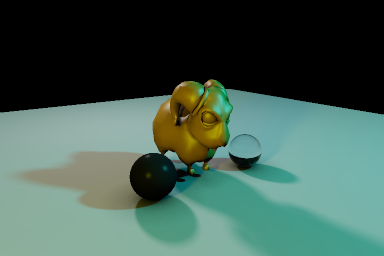
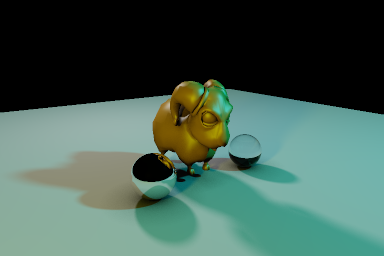
fix: --sphere mirror is a mirror
The options that describe the model were applied after the spheres had
joined the scene. --reflectivity is 0 unless given, so it wiped the mirror
off every sphere --sphere had just added; --transparency, --color,
--texture, --specular and --shininess reached them the same way. The mirror
sphere of step 11 has been a dark matte ball since v0.2.0, and the gallery
caption explained it by the black sky it was supposed to reflect.

The model's options now go on the model alone, before anything else joins
the scene: the spheres keep the material they were given, and the ground
plane has its own option. The render line lists the mirrors and the glass
the scene really holds, not the ones the options asked for.

The unit tests build their spheres with their materials and never went
through this path. ctest cli_mirror_sphere does: it renders a mirror sphere
and expects the render line to report reflections, which fails on the old
order. docs/evolution/11-primitives.png is the only gallery picture that
moves: the ball now shows the ground, the ram and the black sky above them.

Claude-Session: https://claude.ai/code/session_01UcpgzRVNjAUqXK1pax59yv

Changed region(s): [[0.3125, 0.5938, 0.4688, 0.7812]]

diff --git a/src/cli/Main.cpp b/src/cli/Main.cpp
@@ -622,6 +622,23 @@ int main(int argc, char** argv) {
     std::string upSource = "option";
     const UpAxis up = o.up ? *o.up : resolveUpAxis(path, scene, &upSource);
     scene.setUpAxis(up);
+    // What the options say of the model goes on the model alone, before
+    // anything else joins the scene: a sphere added below keeps the material
+    // it was given, and a ground plane has its own option.
+    scene.setModelReflectivity(o.reflectivity);
+    // Glass only when asked: an OBJ's MTL may already make some of it glass.
+    // A texture given here replaces the one the MTL may have loaded.
+    const std::shared_ptr<const Texture> texture = o.texture.empty() ? nullptr : Texture::load(o.texture);
+    if (!o.texture.empty() && !texture) return 1;
+    for (Object& object : scene.getObjects()) {
+        Material& m = object.getMaterial();
+        if (o.transparency) m.setTransparency(*o.transparency);
+        if (o.ior) m.setIor(*o.ior);
+        if (o.color) m.setColor(*o.color);
+        if (!o.texture.empty()) m.setDiffuseMap(texture);
+        if (o.specularStrength) m.setSpecular(*o.specularStrength);
+        if (o.shininess) m.setShininess(*o.shininess);
+    }
     addSpheres(o.spheres);
     scene.addDefaultLights();
     if (o.lightRadius >= 0.f) scene.setLightRadius(o.lightRadius);
@@ -643,22 +660,7 @@ int main(int argc, char** argv) {
         }
     }
     if (o.ground) scene.addGroundPlane();  // a backdrop: framing below still follows the model
-    scene.setModelReflectivity(o.reflectivity);
     scene.setGroundReflectivity(o.groundReflectivity);
-    // Glass only when asked: an OBJ's MTL may already make some of it glass.
-    // A texture given here replaces the one the MTL may have loaded.
-    const std::shared_ptr<const Texture> texture = o.texture.empty() ? nullptr : Texture::load(o.texture);
-    if (!o.texture.empty() && !texture) return 1;
-    for (Object& object : scene.getObjects()) {
-        if (object.isBackdrop()) continue;
-        Material& m = object.getMaterial();
-        if (o.transparency) m.setTransparency(*o.transparency);
-        if (o.ior) m.setIor(*o.ior);
-        if (o.color) m.setColor(*o.color);
-        if (!o.texture.empty()) m.setDiffuseMap(texture);
-        if (o.specularStrength) m.setSpecular(*o.specularStrength);
-        if (o.shininess) m.setShininess(*o.shininess);
-    }
 
     const BoundingBox& bbox = scene.getBoundingBox();
     const float size = bbox.getSize();
@@ -730,9 +732,13 @@ int main(int argc, char** argv) {
                                                : "";
         if (o.aoSamples > 0)
             effects += ", " + std::to_string(o.aoSamples * o.aoSamples) + " occlusion rays/hit";
-        bool glassy = false;
-        for (const Object& object : scene.getObjects()) glassy = glassy || object.getMaterial().getTransparency() > 0.f;
-        if ((o.reflectivity > 0.f || o.groundReflectivity > 0.f || glassy) && o.maxDepth > 0)
+        // From the scene, not the options: a --sphere brings its own mirror or glass.
+        bool glassy = false, mirrors = false;
+        for (const Object& object : scene.getObjects()) {
+            glassy = glassy || object.getMaterial().getTransparency() > 0.f;
+            mirrors = mirrors || object.getMaterial().getReflectivity() > 0.f;
+        }
+        if ((mirrors || glassy) && o.maxDepth > 0)
             effects += std::string(", ") + (glassy ? "glass and reflections" : "reflections") + " up to depth " +
                        std::to_string(o.maxDepth);
         std::printf("render  %ux%u %s, %u ray%s/px%s%s, %s, %u thread%s, in %.3fs: %lu/%lu rays hit (%.1f%%), hit distance [%.3f, %.3f]\n",

diff --git a/README.md b/README.md
@@ -61,7 +61,7 @@ regenerates them and the timings.
 | ![Ambient occlusion](docs/evolution/08-occlusion.png)<br>**8. Ambient occlusion** (`--ao 8`): 64 hemisphere rays per hit; the creases under the horn, the belly's reflection and the floor at the feet darken. | ![Ambient occlusion mode](docs/evolution/08-occlusion-ao.png)<br>**8, the occlusion itself** (`--mode ao`): the open share of each point's hemisphere, white = open. |
 | ![Refraction](docs/evolution/07b-refraction.png)<br>**7b. Refraction** (`--transparency 1`), the stretch of experiment 7, done after 8: the ram in clear glass bends the floor behind it, catches reflections at its rims and turns dark where light reflects entirely inside. | ![Glass teapot](docs/evolution/07b-teapot.png)<br>**7b, on the teapot**, whose smooth body reads better: the floor shows through, shifted and bent, the lid and the handle stay visible by their rims. |
 | ![Texture](docs/evolution/12-texture.png)<br>**12. Textures** (Spot, from her MTL): the picture follows the surface through the coordinates the file carries. The rams and the teapot cannot have this: OFF stores no coordinates. | ![UV](docs/evolution/12-uv.png)<br>**12, the coordinates themselves** (`--mode uv`): u in red, v in green. The seams of the unwrapping show as hard edges. |
-| ![Analytic primitives](docs/evolution/11-primitives.png)<br>**11. Analytic primitives** (`--sphere`): a mirror sphere and a glass one, given by their equation, stand beside the mesh. Their silhouettes are exact circles; the mirror is dark because it reflects a black sky. | ![Display](docs/evolution/09-display.png)<br>**9. Exposure, tone mapping, sRGB**: step 8's radiance, now metered (−1.4 EV here), through the ACES curve and encoded in sRGB, the new default. Highlights keep their gradations; the shadows open up, and the scene, lit for the old linear bytes, looks flatter. | ![Reinhard](docs/evolution/09-reinhard.png)<br>**9, Reinhard et al.'s photographic operator** (`--tonemap reinhard`): the same metered exposure, their curve L / (1 + L) on luminance: softer, less saturated than ACES. |
+| ![Analytic primitives](docs/evolution/11-primitives.png)<br>**11. Analytic primitives** (`--sphere`): a mirror sphere and a glass one, given by their equation, stand beside the mesh. Their silhouettes are exact circles; the mirror shows the ground and the ram, under a sky that is still black. | ![Display](docs/evolution/09-display.png)<br>**9. Exposure, tone mapping, sRGB**: step 8's radiance, now metered (−1.4 EV here), through the ACES curve and encoded in sRGB, the new default. Highlights keep their gradations; the shadows open up, and the scene, lit for the old linear bytes, looks flatter. | ![Reinhard](docs/evolution/09-reinhard.png)<br>**9, Reinhard et al.'s photographic operator** (`--tonemap reinhard`): the same metered exposure, their curve L / (1 + L) on luminance: softer, less saturated than ACES. |
 
 Steps 3 and 4 change the time, not the picture (the script checks the
 pixels are identical). **3. BVH**: the picture of step 2 on one thread,

diff --git a/CHANGELOG.md b/CHANGELOG.md
@@ -11,6 +11,17 @@ publishes it as the release notes, with the binaries for macOS and Linux.
 
 ## [Unreleased]
 
+### Fixed
+
+- **`--sphere ... mirror` is a mirror.** The options that describe the model
+  were applied after the spheres had joined the scene, so `--reflectivity`,
+  0 unless given, wiped the mirror off every sphere, and `--transparency`,
+  `--color`, `--texture`, `--specular` and `--shininess` reached them too.
+  The gallery's step 11 showed a dark ball, and its caption blamed the black
+  sky. Those options now touch the model alone, and the render line lists
+  the mirrors and the glass the scene really holds (ctest
+  `cli_mirror_sphere`). Since v0.2.0.
+
 ## [0.5.0] - 2026-09-20
 
 Step 12 of the timeline: E. Catmull, "A Subdivision Algorithm for Computer
